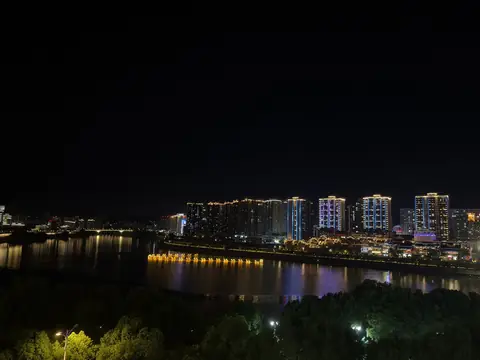
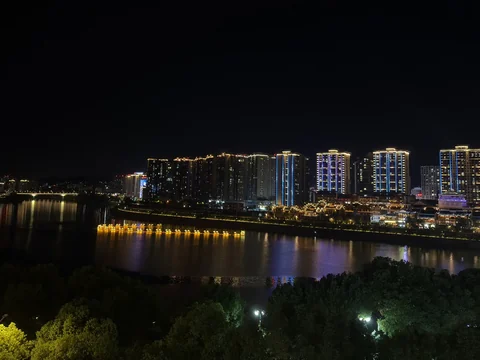
Reframe nine Chengdu and Zhangjiajie gallery tiles
Eight tiles get a --focus-y so the default centre crop stops cutting
off heads, the goldfish lantern, the stone basin, the fried rice and
the fruit drink their captions are about. river-skyline-night is
already 4:3, so focus cannot move it; its empty black sky and dim
edges are cropped instead (still 4:3), and its variants regenerated.

diff --git a/journals/travel_2026_chengdu_zhangjiajie.html b/journals/travel_2026_chengdu_zhangjiajie.html
@@ -27,15 +27,15 @@
   <p class="travel-journal__note guangzhou-day__note">We spent the morning at the panda base, then moved on to Red Panda Forest Park, which also had raccoons and rabbits to feed. The red pandas were the highlight, especially when four of them lined up on the same rail. We drove back to Chengdu that evening.</p>
   <div class="travel-gallery travel-gallery--compact masonry mason4">
     <div class="travel-gallery__item brick lazyload container"><div class="content"><div class="content-overlay"></div><img class="content-image" src="images/travel/2026_chengdu_zhangjiajie/day2/panda-in-bamboo.webp" alt="Giant panda sitting among wet bamboo at Dujiangyan Panda Base" /><div class="content-details fadeIn-left fadeIn-top"><h3 class="content-title">Dujiangyan Panda Base</h3><p class="content-text">Breakfast in the bamboo</p></div></div></div>
-    <div class="travel-gallery__item brick lazyload container"><div class="content"><div class="content-overlay"></div><img class="content-image" src="images/travel/2026_chengdu_zhangjiajie/day2/panda-base-couple.webp" alt="Nicholas and his wife on a bamboo-lined path at Dujiangyan Panda Base" /><div class="content-details fadeIn-left fadeIn-top"><h3 class="content-title">Bamboo trail</h3><p class="content-text">Between the panda enclosures</p></div></div></div>
+    <div class="travel-gallery__item brick lazyload container"><div class="content"><div class="content-overlay"></div><img class="content-image" src="images/travel/2026_chengdu_zhangjiajie/day2/panda-base-couple.webp" alt="Nicholas and his wife on a bamboo-lined path at Dujiangyan Panda Base" style="--focus-x: 50%; --focus-y: 25%;" /><div class="content-details fadeIn-left fadeIn-top"><h3 class="content-title">Bamboo trail</h3><p class="content-text">Between the panda enclosures</p></div></div></div>
     <div class="travel-gallery__item brick lazyload container"><div class="content"><div class="content-overlay"></div><video class="content-image journal-animation" autoplay loop muted playsinline preload="metadata" poster="images/travel/2026_chengdu_zhangjiajie/day2/panda-bamboo-poster.webp" aria-label="Giant panda sitting among leafy shrubs at Dujiangyan Panda Base"><source src="images/travel/2026_chengdu_zhangjiajie/day2/panda-bamboo.mp4" type="video/mp4">Giant panda sitting among shrubs.</video><div class="content-details fadeIn-left fadeIn-top"><h3 class="content-title">Panda Base</h3><p class="content-text">A slow, leafy morning</p></div></div></div>
     <div class="travel-gallery__item brick lazyload container"><div class="content"><div class="content-overlay"></div><img class="content-image" src="images/travel/2026_chengdu_zhangjiajie/day2/red-panda-bamboo.webp" alt="Red panda eating on a log platform among bamboo at the panda base" /><div class="content-details fadeIn-left fadeIn-top"><h3 class="content-title">Panda Base</h3><p class="content-text">The red pandas were having breakfast too</p></div></div></div>
     <div class="travel-gallery__item brick lazyload container"><div class="content"><div class="content-overlay"></div><video class="content-image journal-animation" autoplay loop muted playsinline preload="metadata" poster="images/travel/2026_chengdu_zhangjiajie/day2/raccoon-feeding-poster.webp" aria-label="Nicholas&rsquo;s wife feeding a raccoon at Red Panda Forest Park"><source src="images/travel/2026_chengdu_zhangjiajie/day2/raccoon-feeding.mp4" type="video/mp4">A raccoon reaching for a snack.</video><div class="content-details fadeIn-left fadeIn-top"><h3 class="content-title">Red Panda Forest</h3><p class="content-text">One raccoon, very interested in her hand</p></div></div></div>
     <div class="travel-gallery__item brick lazyload container"><div class="content"><div class="content-overlay"></div><img class="content-image" src="images/travel/2026_chengdu_zhangjiajie/day2/raccoon-crowd.webp" alt="Nicholas feeding a group of raccoons gathered on a wooden ramp" /><div class="content-details fadeIn-left fadeIn-top"><h3 class="content-title">Raccoon enclosure</h3><p class="content-text">Then the rest of them turned up</p></div></div></div>
-    <div class="travel-gallery__item brick lazyload container"><div class="content"><div class="content-overlay"></div><img class="content-image" src="images/travel/2026_chengdu_zhangjiajie/day2/rabbit-feeding.webp" alt="Nicholas&rsquo;s wife crouching beside rabbits at Red Panda Forest Park" /><div class="content-details fadeIn-left fadeIn-top"><h3 class="content-title">Small neighbours</h3><p class="content-text">Rabbits at feeding time</p></div></div></div>
+    <div class="travel-gallery__item brick lazyload container"><div class="content"><div class="content-overlay"></div><img class="content-image" src="images/travel/2026_chengdu_zhangjiajie/day2/rabbit-feeding.webp" alt="Nicholas&rsquo;s wife crouching beside rabbits at Red Panda Forest Park" style="--focus-x: 50%; --focus-y: 30%;" /><div class="content-details fadeIn-left fadeIn-top"><h3 class="content-title">Small neighbours</h3><p class="content-text">Rabbits at feeding time</p></div></div></div>
     <div class="travel-gallery__item brick lazyload container"><div class="content"><div class="content-overlay"></div><img class="content-image" src="images/travel/2026_chengdu_zhangjiajie/day2/red-panda-log.webp" alt="Red panda climbing over a log pile and looking straight at the camera" /><div class="content-details fadeIn-left fadeIn-top"><h3 class="content-title">Red Panda Forest</h3><p class="content-text">Eye level with a curious resident</p></div></div></div>
     <div class="travel-gallery__item brick lazyload container"><div class="content"><div class="content-overlay"></div><img class="content-image" src="images/travel/2026_chengdu_zhangjiajie/day2/red-panda-family.webp" alt="Four red pandas leaning over a wooden rail" /><div class="content-details fadeIn-left fadeIn-top"><h3 class="content-title">Red Panda Forest</h3><p class="content-text">All four in one shot</p></div></div></div>
-    <div class="travel-gallery__item brick lazyload container"><div class="content"><div class="content-overlay"></div><img class="content-image" src="images/travel/2026_chengdu_zhangjiajie/day2/red-panda-friend.webp" alt="Nicholas kneeling beside a red panda on a feeding platform" /><div class="content-details fadeIn-left fadeIn-top"><h3 class="content-title">New friend</h3><p class="content-text">More interested in the snacks than in us</p></div></div></div>
+    <div class="travel-gallery__item brick lazyload container"><div class="content"><div class="content-overlay"></div><img class="content-image" src="images/travel/2026_chengdu_zhangjiajie/day2/red-panda-friend.webp" alt="Nicholas kneeling beside a red panda on a feeding platform" style="--focus-x: 50%; --focus-y: 6%;" /><div class="content-details fadeIn-left fadeIn-top"><h3 class="content-title">New friend</h3><p class="content-text">More interested in the snacks than in us</p></div></div></div>
     <div class="travel-gallery__item brick lazyload container"><div class="content"><div class="content-overlay"></div><img class="content-image" src="images/travel/2026_chengdu_zhangjiajie/day2/red-panda-closeup.webp" alt="Red panda leaning against a visitor at close range" /><div class="content-details fadeIn-left fadeIn-top"><h3 class="content-title">Up close</h3><p class="content-text">This one came right over to us</p></div></div></div>
     <div class="travel-gallery__item brick lazyload container"><div class="content"><div class="content-overlay"></div><img class="content-image" src="images/travel/2026_chengdu_zhangjiajie/day2/glazed-rolls-dinner.webp" alt="Dinner of red-glazed rolls with a creamy dip, fried rice and greens" /><div class="content-details fadeIn-left fadeIn-top"><h3 class="content-title">Dinner</h3><p class="content-text">Glazed rolls, fried rice and greens</p></div></div></div>
   </div>
@@ -50,7 +50,7 @@
     <div class="travel-gallery__item brick lazyload container"><div class="content"><div class="content-overlay"></div><img class="content-image" src="images/travel/2026_chengdu_zhangjiajie/day3/panda-plaza-portrait.webp" alt="Nicholas&rsquo;s wife smiling on a plaza with a giant panda sculpture behind her" /><div class="content-details fadeIn-left fadeIn-top"><h3 class="content-title">Panda city</h3><p class="content-text">Even the shopping district has a mascot</p></div></div></div>
     <div class="travel-gallery__item brick lazyload container"><div class="content"><div class="content-overlay"></div><img class="content-image" src="images/travel/2026_chengdu_zhangjiajie/day3/massage-lounge.webp" alt="Reclining massage chairs in a private Chengdu lounge" /><div class="content-details fadeIn-left fadeIn-top"><h3 class="content-title">金色印象</h3><p class="content-text">A few hours off our feet</p></div></div></div>
     <div class="travel-gallery__item brick lazyload container"><div class="content"><div class="content-overlay"></div><img class="content-image" src="images/travel/2026_chengdu_zhangjiajie/day3/bakery-cupcake.webp" alt="Nicholas&rsquo;s wife holding a cupcake at a Bon Appetit bakery counter" /><div class="content-details fadeIn-left fadeIn-top"><h3 class="content-title">Bon Appetit</h3><p class="content-text">A cupcake for the evening walk</p></div></div></div>
-    <div class="travel-gallery__item brick lazyload container"><div class="content"><div class="content-overlay"></div><img class="content-image" src="images/travel/2026_chengdu_zhangjiajie/day3/dongmen-wharf-night.webp" alt="Lantern-lit boats on the river beside Dongmen Wharf at night" /><div class="content-details fadeIn-left fadeIn-top"><h3 class="content-title">Dongmen Wharf</h3><p class="content-text">Lanterns along the river</p></div></div></div>
+    <div class="travel-gallery__item brick lazyload container"><div class="content"><div class="content-overlay"></div><img class="content-image" src="images/travel/2026_chengdu_zhangjiajie/day3/dongmen-wharf-night.webp" alt="Lantern-lit boats on the river beside Dongmen Wharf at night" style="--focus-x: 50%; --focus-y: 70%;" /><div class="content-details fadeIn-left fadeIn-top"><h3 class="content-title">Dongmen Wharf</h3><p class="content-text">Lanterns along the river</p></div></div></div>
     <div class="travel-gallery__item brick lazyload container"><div class="content"><div class="content-overlay"></div><img class="content-image" src="images/travel/2026_chengdu_zhangjiajie/day3/brick-panda-display.webp" alt="Nicholas&rsquo;s wife sitting among brick-built panda sculptures in a shop display" /><div class="content-details fadeIn-left fadeIn-top"><h3 class="content-title">Brick pandas</h3><p class="content-text">A whole family, built from bricks</p></div></div></div>
     <div class="travel-gallery__item brick lazyload container"><div class="content"><div class="content-overlay"></div><img class="content-image" src="images/travel/2026_chengdu_zhangjiajie/day3/brick-hotpot-diner.webp" alt="Brick-built figure in a beanie and bib at a hotpot table of miniature brick dishes" /><div class="content-details fadeIn-left fadeIn-top"><h3 class="content-title">Hotpot, built from bricks</h3><p class="content-text">Even the dishes were made from bricks</p></div></div></div>
     <div class="travel-gallery__item brick lazyload container"><div class="content"><div class="content-overlay"></div><img class="content-image" src="images/travel/2026_chengdu_zhangjiajie/day3/brick-panda-giant.webp" alt="Nicholas&rsquo;s wife posing beneath a giant brick-built panda" /><div class="content-details fadeIn-left fadeIn-top"><h3 class="content-title">Giant brick panda</h3><p class="content-text">Dwarfed by the biggest one</p></div></div></div>
@@ -69,12 +69,12 @@
     <div class="travel-gallery__item brick lazyload container"><div class="content"><div class="content-overlay"></div><img class="content-image" src="images/travel/2026_chengdu_zhangjiajie/day4/zhangjiajie-river-view.webp" alt="River and cityscape viewed from the Zhangjiajie homestay" /><div class="content-details fadeIn-left fadeIn-top"><h3 class="content-title">Zhangjiajie</h3><p class="content-text">Our first look across the river</p></div></div></div>
     <div class="travel-gallery__item brick lazyload container"><div class="content"><div class="content-overlay"></div><img class="content-image" src="images/travel/2026_chengdu_zhangjiajie/day4/river-view-homestay.webp" alt="River-facing room at the Zhangjiajie homestay" /><div class="content-details fadeIn-left fadeIn-top"><h3 class="content-title">醒在清晨</h3><p class="content-text">A room framed around the river view</p></div></div></div>
     <div class="travel-gallery__item brick lazyload container"><div class="content"><div class="content-overlay"></div><img class="content-image" src="images/travel/2026_chengdu_zhangjiajie/day4/wonder-tower-dragon.webp" alt="Dragon pillar beside the entrance to 72 Wonder Tower" /><div class="content-details fadeIn-left fadeIn-top"><h3 class="content-title">72 Wonder Tower</h3><p class="content-text">A dragon guarding the gate</p></div></div></div>
-    <div class="travel-gallery__item brick lazyload container"><div class="content"><div class="content-overlay"></div><img class="content-image" src="images/travel/2026_chengdu_zhangjiajie/day4/carved-courtyard.webp" alt="Carved wooden courtyard with a stone basin of coins and notes at its centre" /><div class="content-details fadeIn-left fadeIn-top"><h3 class="content-title">Courtyard pause</h3><p class="content-text">Wishes left in the old stone basin</p></div></div></div>
+    <div class="travel-gallery__item brick lazyload container"><div class="content"><div class="content-overlay"></div><img class="content-image" src="images/travel/2026_chengdu_zhangjiajie/day4/carved-courtyard.webp" alt="Carved wooden courtyard with a stone basin of coins and notes at its centre" style="--focus-x: 50%; --focus-y: 85%;" /><div class="content-details fadeIn-left fadeIn-top"><h3 class="content-title">Courtyard pause</h3><p class="content-text">Wishes left in the old stone basin</p></div></div></div>
     <div class="travel-gallery__item brick lazyload container"><div class="content"><div class="content-overlay"></div><img class="content-image" src="images/travel/2026_chengdu_zhangjiajie/day4/seventy-two-tower-day.webp" alt="Towering timber fa&ccedil;ades of 72 Wonder Tower before sunset" /><div class="content-details fadeIn-left fadeIn-top"><h3 class="content-title">72 Wonder Tower</h3><p class="content-text">The stacked skyline before dark</p></div></div></div>
     <div class="travel-gallery__item brick lazyload container"><div class="content"><div class="content-overlay"></div><img class="content-image" src="images/travel/2026_chengdu_zhangjiajie/day4/seventy-two-tower-night.webp" alt="72 Wonder Tower glowing in green and gold at night" /><div class="content-details fadeIn-left fadeIn-top"><h3 class="content-title">七十二奇楼</h3><p class="content-text">The whole complex switched on at night</p></div></div></div>
     <div class="travel-gallery__item brick lazyload container"><div class="content"><div class="content-overlay"></div><img class="content-image" src="images/travel/2026_chengdu_zhangjiajie/day4/river-skyline-night.webp" alt="Zhangjiajie riverfront towers lit up at night across the water" /><div class="content-details fadeIn-left fadeIn-top"><h3 class="content-title">From our window</h3><p class="content-text">The river view after dark</p></div></div></div>
     <div class="travel-gallery__item brick lazyload container"><div class="content"><div class="content-overlay"></div><img class="content-image" src="images/travel/2026_chengdu_zhangjiajie/day4/city-gate-night.webp" alt="City gate with three arched doorways glowing amber under blue-lit roofs" /><div class="content-details fadeIn-left fadeIn-top"><h3 class="content-title">City gate</h3><p class="content-text">Amber walls and blue roofs</p></div></div></div>
-    <div class="travel-gallery__item brick lazyload container"><div class="content"><div class="content-overlay"></div><img class="content-image" src="images/travel/2026_chengdu_zhangjiajie/day4/fish-lantern-walk.webp" alt="Nicholas&rsquo;s wife beneath glowing orange fish lanterns in a blue-lit passage" /><div class="content-details fadeIn-left fadeIn-top"><h3 class="content-title">Lantern walk</h3><p class="content-text">Swimming through a blue-lit passage</p></div></div></div>
+    <div class="travel-gallery__item brick lazyload container"><div class="content"><div class="content-overlay"></div><img class="content-image" src="images/travel/2026_chengdu_zhangjiajie/day4/fish-lantern-walk.webp" alt="Nicholas&rsquo;s wife beneath glowing orange fish lanterns in a blue-lit passage" style="--focus-x: 50%; --focus-y: 34%;" /><div class="content-details fadeIn-left fadeIn-top"><h3 class="content-title">Lantern walk</h3><p class="content-text">Swimming through a blue-lit passage</p></div></div></div>
     <div class="travel-gallery__item brick lazyload container"><div class="content"><div class="content-overlay"></div><img class="content-image" src="images/travel/2026_chengdu_zhangjiajie/day4/old-town-pavilion-night.webp" alt="Traditional pavilion lit in amber at night" /><div class="content-details fadeIn-left fadeIn-top"><h3 class="content-title">Old-town pavilion</h3><p class="content-text">A quiet end to the evening</p></div></div></div>
   </div>
 </section>
@@ -106,7 +106,7 @@
   <p class="travel-journal__note guangzhou-day__note">We started at the Grand Canyon Glass Bridge, then headed back to town for the cable car up Tianmen Mountain. It was a long day, but we managed Tianmen Cave, the cliff paths and the glass skywalk before coming down.</p>
   <div class="travel-gallery travel-gallery--compact masonry mason4">
     <div class="travel-gallery__item brick lazyload container"><div class="content"><div class="content-overlay"></div><img class="content-image" src="images/travel/2026_chengdu_zhangjiajie/day6/glass-bridge.webp" alt="Zhangjiajie Grand Canyon Glass Bridge stretching between wooded cliffs" /><div class="content-details fadeIn-left fadeIn-top"><h3 class="content-title">Glass Bridge</h3><p class="content-text">A clear path across the canyon</p></div></div></div>
-    <div class="travel-gallery__item brick lazyload container"><div class="content"><div class="content-overlay"></div><img class="content-image" src="images/travel/2026_chengdu_zhangjiajie/day6/mountain-lunch.webp" alt="Fried snacks, rice and greens served for lunch near Tianmen Mountain" /><div class="content-details fadeIn-left fadeIn-top"><h3 class="content-title">Lunch</h3><p class="content-text">Fried snacks, rice and greens before the cable car</p></div></div></div>
+    <div class="travel-gallery__item brick lazyload container"><div class="content"><div class="content-overlay"></div><img class="content-image" src="images/travel/2026_chengdu_zhangjiajie/day6/mountain-lunch.webp" alt="Fried snacks, rice and greens served for lunch near Tianmen Mountain" style="--focus-x: 50%; --focus-y: 20%;" /><div class="content-details fadeIn-left fadeIn-top"><h3 class="content-title">Lunch</h3><p class="content-text">Fried snacks, rice and greens before the cable car</p></div></div></div>
     <div class="travel-gallery__item brick lazyload container"><div class="content"><div class="content-overlay"></div><img class="content-image" src="images/travel/2026_chengdu_zhangjiajie/day6/tianmen-cable-car.webp" alt="Cable car crossing the valley on the ascent to Tianmen Mountain" /><div class="content-details fadeIn-left fadeIn-top"><h3 class="content-title">Tianmen cableway</h3><p class="content-text">Climbing above the valley</p></div></div></div>
     <div class="travel-gallery__item travel-gallery__item--tall brick lazyload container guangzhou-gallery__brick--tall"><div class="content"><div class="content-overlay"></div><img class="content-image" src="images/travel/2026_chengdu_zhangjiajie/day6/tianmen-cave.webp" alt="Natural arch of Tianmen Cave viewed from the long stone staircase" /><div class="content-details fadeIn-left fadeIn-top"><h3 class="content-title">Heaven&rsquo;s Gate</h3><p class="content-text">Tianmen Cave at the top of 999 steps</p></div></div></div>
     <div class="travel-gallery__item brick lazyload container"><div class="content"><div class="content-overlay"></div><img class="content-image" src="images/travel/2026_chengdu_zhangjiajie/day6/tianmen-stairway-view.webp" alt="Long stairway dropping between cliffs toward the city far below" /><div class="content-details fadeIn-left fadeIn-top"><h3 class="content-title">Looking back down</h3><p class="content-text">The view from the top of the steps</p></div></div></div>
@@ -127,7 +127,7 @@
   <div class="travel-gallery travel-gallery--compact masonry mason4">
     <div class="travel-gallery__item brick lazyload container"><div class="content"><div class="content-overlay"></div><img class="content-image" src="images/travel/2026_chengdu_zhangjiajie/day7/final-morning-view.webp" alt="Zhangjiajie river and apartment skyline in soft morning light" /><div class="content-details fadeIn-left fadeIn-top"><h3 class="content-title">Final morning</h3><p class="content-text">One last look across the river</p></div></div></div>
     <div class="travel-gallery__item brick lazyload container"><div class="content"><div class="content-overlay"></div><img class="content-image" src="images/travel/2026_chengdu_zhangjiajie/day7/korean-lunch.webp" alt="Nicholas&rsquo;s wife and her mother sharing a Korean lunch of bulgogi, stone-pot bibimbap and braised potatoes" /><div class="content-details fadeIn-left fadeIn-top"><h3 class="content-title">Chengdu layover</h3><p class="content-text">Korean food for our last lunch in China</p></div></div></div>
-    <div class="travel-gallery__item brick lazyload container"><div class="content"><div class="content-overlay"></div><img class="content-image" src="images/travel/2026_chengdu_zhangjiajie/day7/layover-drink.webp" alt="Nicholas&rsquo;s wife holding a fruit drink with pearls during the layover" /><div class="content-details fadeIn-left fadeIn-top"><h3 class="content-title">Layover pause</h3><p class="content-text">A fruit drink to pass the time</p></div></div></div>
+    <div class="travel-gallery__item brick lazyload container"><div class="content"><div class="content-overlay"></div><img class="content-image" src="images/travel/2026_chengdu_zhangjiajie/day7/layover-drink.webp" alt="Nicholas&rsquo;s wife holding a fruit drink with pearls during the layover" style="--focus-x: 50%; --focus-y: 80%;" /><div class="content-details fadeIn-left fadeIn-top"><h3 class="content-title">Layover pause</h3><p class="content-text">A fruit drink to pass the time</p></div></div></div>
     <div class="travel-gallery__item brick lazyload container"><div class="content"><div class="content-overlay"></div><img class="content-image" src="images/travel/2026_chengdu_zhangjiajie/day7/terminal-mural.webp" alt="Relief mural of an old Chengdu street inside the airport terminal" /><div class="content-details fadeIn-left fadeIn-top"><h3 class="content-title">Last glimpse of Chengdu</h3><p class="content-text">An old-street mural inside the terminal</p></div></div></div>
   </div>
 </section>
